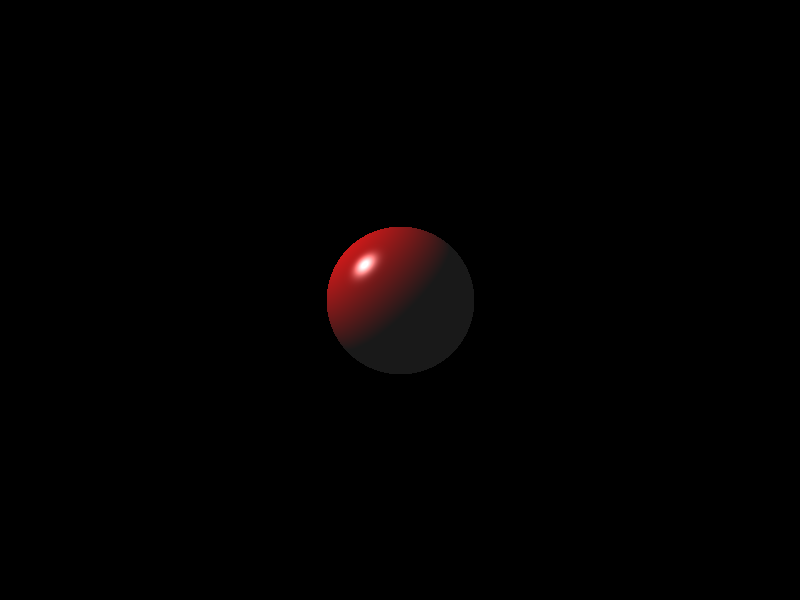
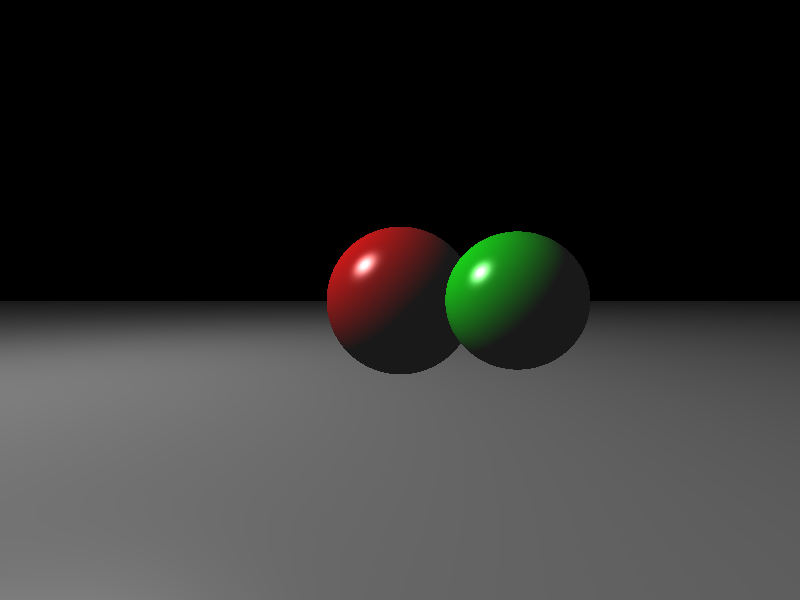
plane object added

diff --git a/main.py b/main.py
@@ -3,36 +3,46 @@ from PIL import Image
 import multiprocessing
 
 from core.objects.sphere import Sphere
+from core.objects.plane import Plane
 from core.camera import Camera
 from core.light import Light
 from utils.vector import Vector3D
 from utils.shading import phong_shading
 
-def render_pixel(x, y, width, height, camera: Camera, sphere: Sphere, light: Light):
+def render_pixel(x, y, width, height, camera: Camera, objects, light: Light):
     u = (x / width) * 2 - 1
     v = 1 - (y / height) * 2
 
     ray = camera.get_ray(u, v)
-    hit = sphere.intersect(ray)
-    if hit:
-        hit_point = ray.origin + ray.direction * hit
+    
+    closest_hit = None
+    closest_obj = None
+    
+    for obj in objects:
+        hit = obj.intersect(ray)
+        if hit and (closest_hit is None or hit < closest_hit):
+            closest_hit = hit
+            closest_obj = obj
+    
+    if closest_hit:
+        hit_point = ray.origin + ray.direction * closest_hit
 
-        # O noktadaki yüzey normalini hesapla
-        normal = (hit_point - sphere.center).normalize()
+        if hasattr(closest_obj, 'center'):
+            normal = (hit_point - closest_obj.center).normalize()
+        elif hasattr(closest_obj, 'normal'):
+            normal = closest_obj.normal
 
-        # Kameraya doğru olan yön (view direction)
         view_dir = -ray.direction
 
-        # Phong gölgelendirme uygula
-        color = phong_shading(hit_point, normal, view_dir, light, sphere.material)
+        color = phong_shading(hit_point, normal, view_dir, light, closest_obj.material)
         return tuple(color)  # RGB (0-255)
 
     return (0, 0, 0)
 
-def render_scene(width, height, camera, sphere, light):
+def render_scene(width, height, camera, objects, light):
     img = np.zeros((height, width, 3), dtype=np.uint8)
     pool = multiprocessing.Pool(processes=multiprocessing.cpu_count())
-    args = [(x, y, width, height, camera, sphere, light) for y in range(height) for x in range(width)]
+    args = [(x, y, width, height, camera, objects, light) for y in range(height) for x in range(width)]
     results = pool.starmap(render_pixel, args)
     pool.close()
     pool.join()
@@ -62,8 +72,29 @@ if __name__ == '__main__':
         "shininess": 32               # Parlaklık katsayısı
     }
 
+    sphere2_center = Vector3D(-1.25, 0, -4, 1)
+    sphere2_radius = 0.75
+    sphere2_material = {
+        "ambient": (0.1, 0.1, 0.1),
+        "diffuse": (0.0, 0.7, 0.0),
+        "specular": (1.0, 1.0, 1.0),
+        "shininess": 32
+    }
+    sphere2 = Sphere(sphere2_center, sphere2_radius, sphere2_material)
     camera = Camera(camera_position, look_at, up, fov, aspect_ratio)
     sphere = Sphere(sphere_center, sphere_radius, sphere_material)
     light = Light(Vector3D(5, 5, -3, 1), (1.0, 1.0, 1.0))
 
-    render_scene(800, 600, camera, sphere, light)
+    plane_point = Vector3D(0, -1, 0, 1)
+    plane_normal = Vector3D(0, 1, 0, 0)
+    plane_material = {
+        "ambient": (0.1, 0.1, 0.1),
+        "diffuse": (0.4, 0.4, 0.4),
+        "specular": (0.5, 0.5, 0.5),
+        "shininess": 16
+    }
+    plane = Plane(plane_point, plane_normal, plane_material)
+
+    objects = [sphere, sphere2, plane]
+
+    render_scene(800, 600, camera, objects, light)

diff --git a/core/objects/plane.py b/core/objects/plane.py
@@ -1,0 +1,27 @@
+from typing import Union
+from utils.vector import Vector3D
+from core.ray import Ray
+
+class Plane:
+    def __init__(self, point: Vector3D, normal: Vector3D, material):
+        self.point = point      # any point ont plane
+        self.normal = normal.normalize()  # normal vector of the plane
+        self.material = material
+    
+    def intersect(self, ray: Ray) -> Union[float, None]:
+        denom = self.normal.dot(ray.direction)
+        
+        # if ray is parallel to the plane, no intersection
+        if abs(denom) < 1e-6:
+            return None
+        
+        p0l0 = self.point - ray.origin
+        
+        # intersection distance
+        t = p0l0.dot(self.normal) / denom
+        
+        # if t is negative, the plane is behind the ray
+        if t < 0:
+            return None
+            
+        return t
